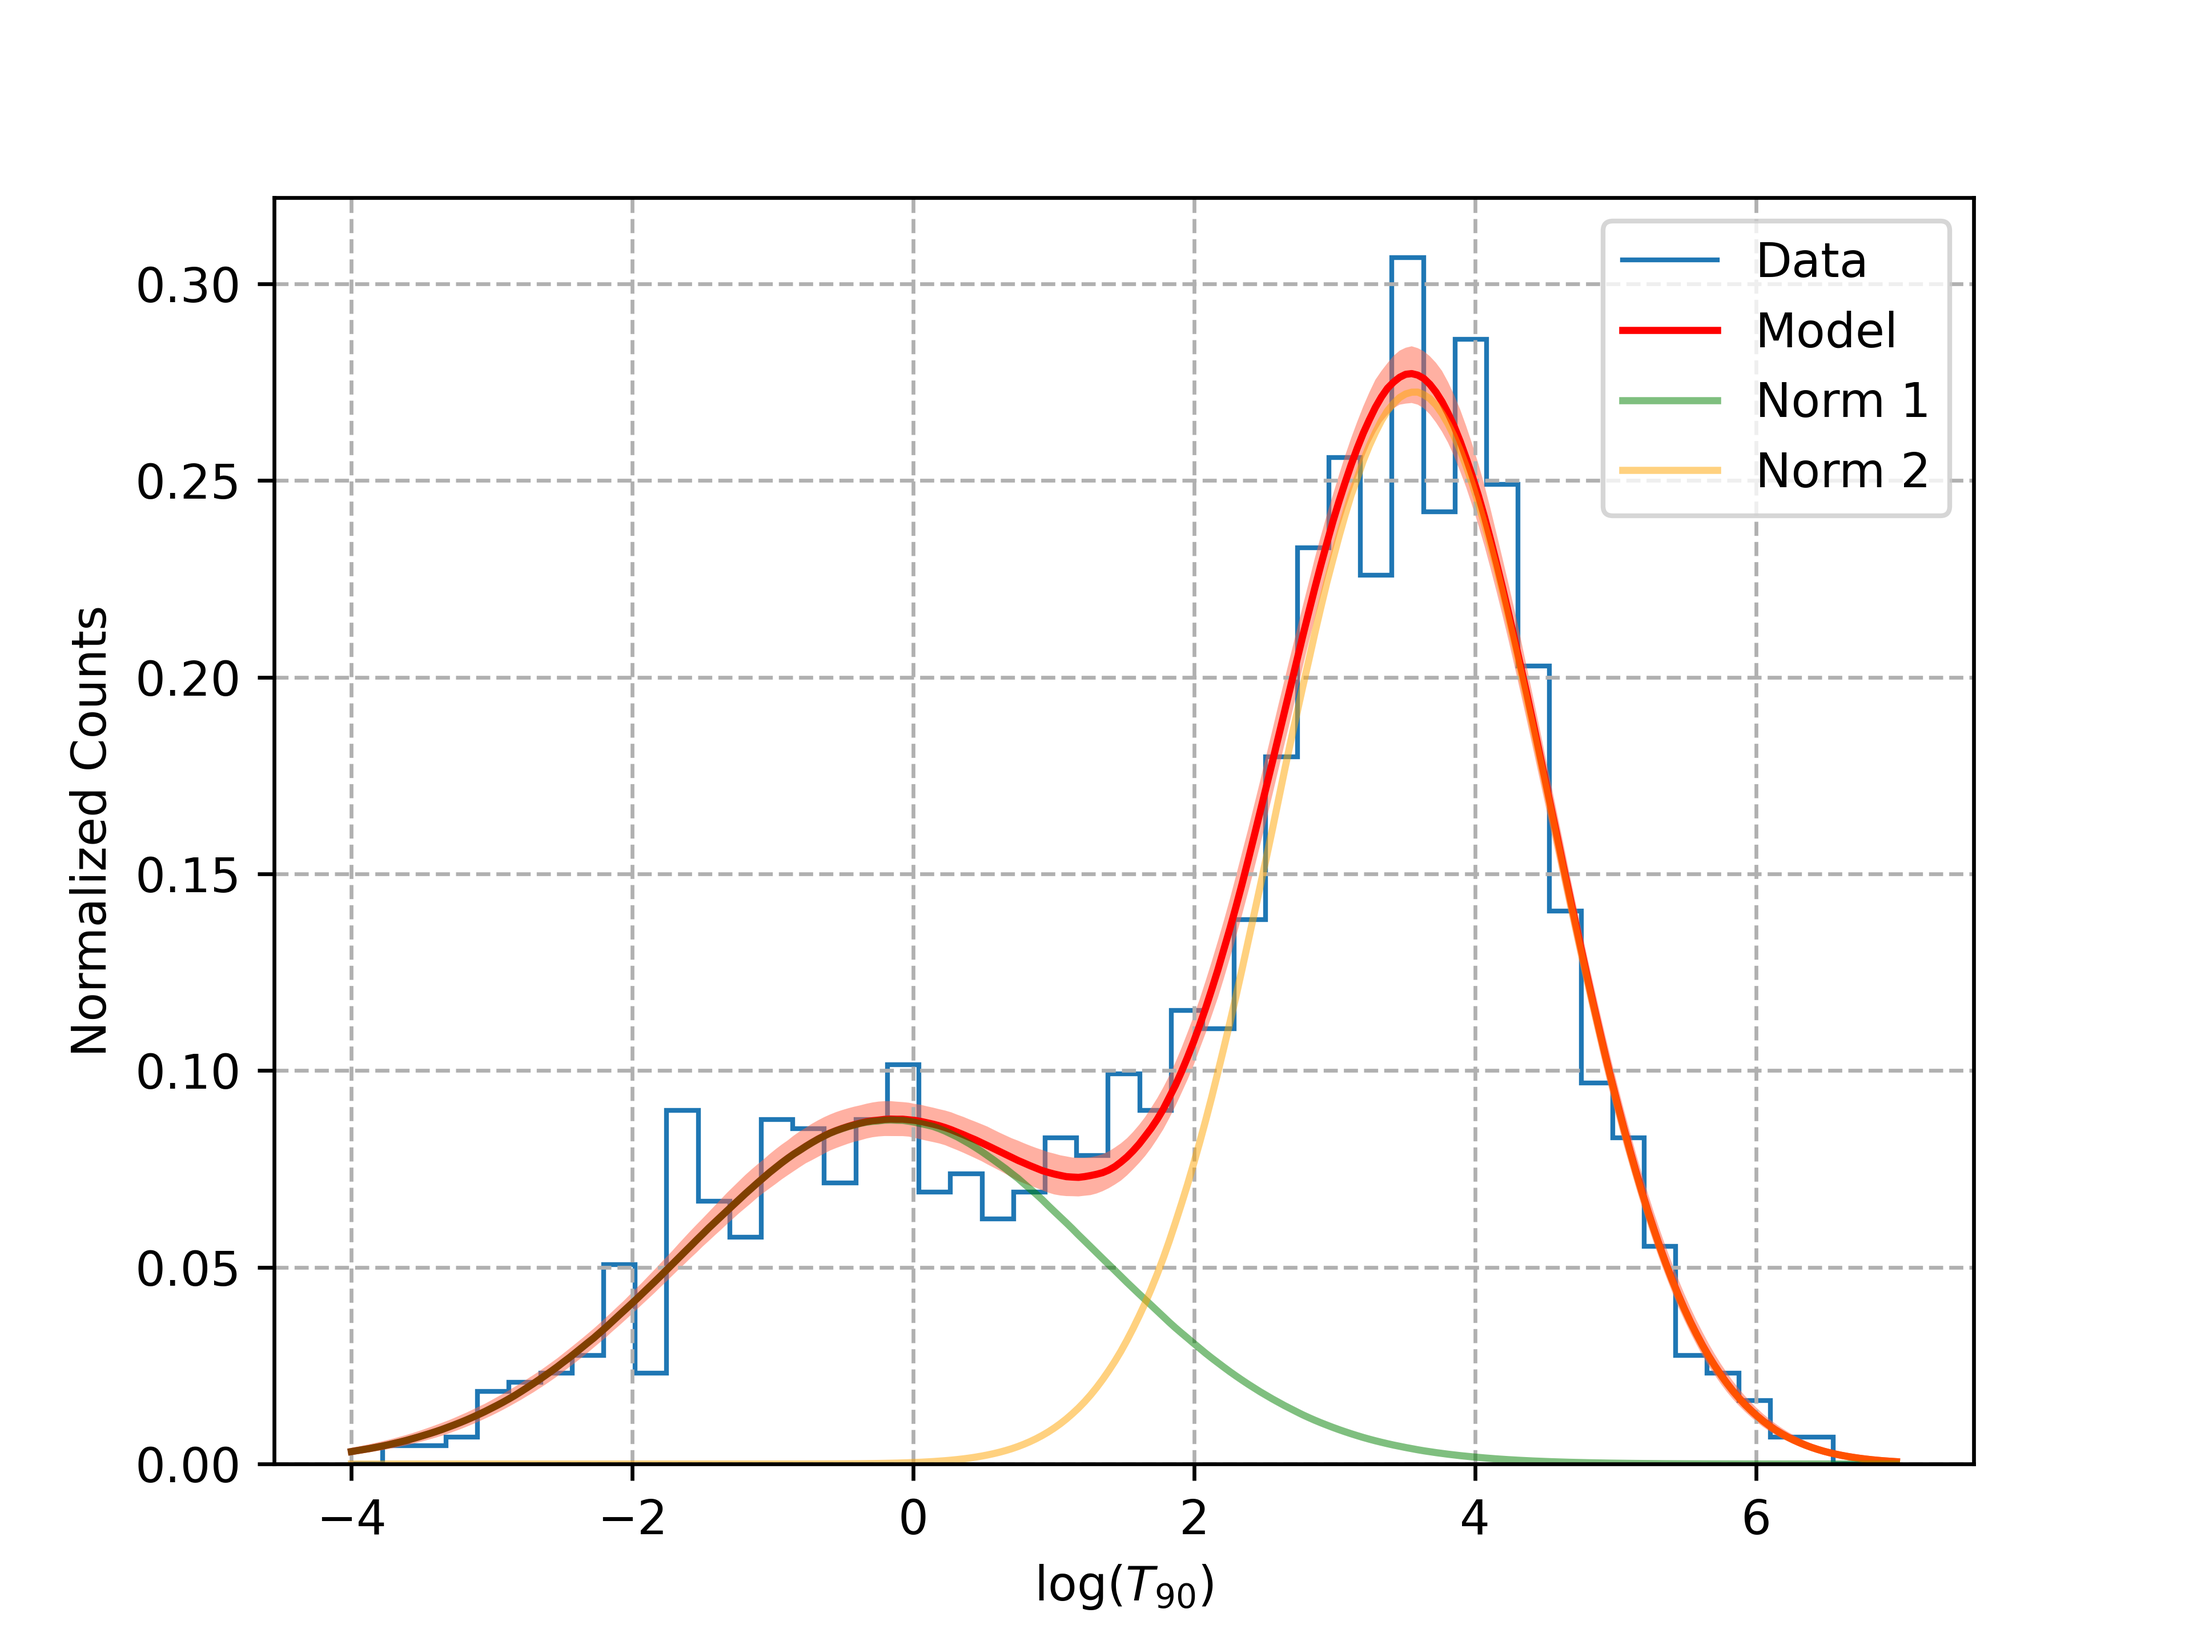
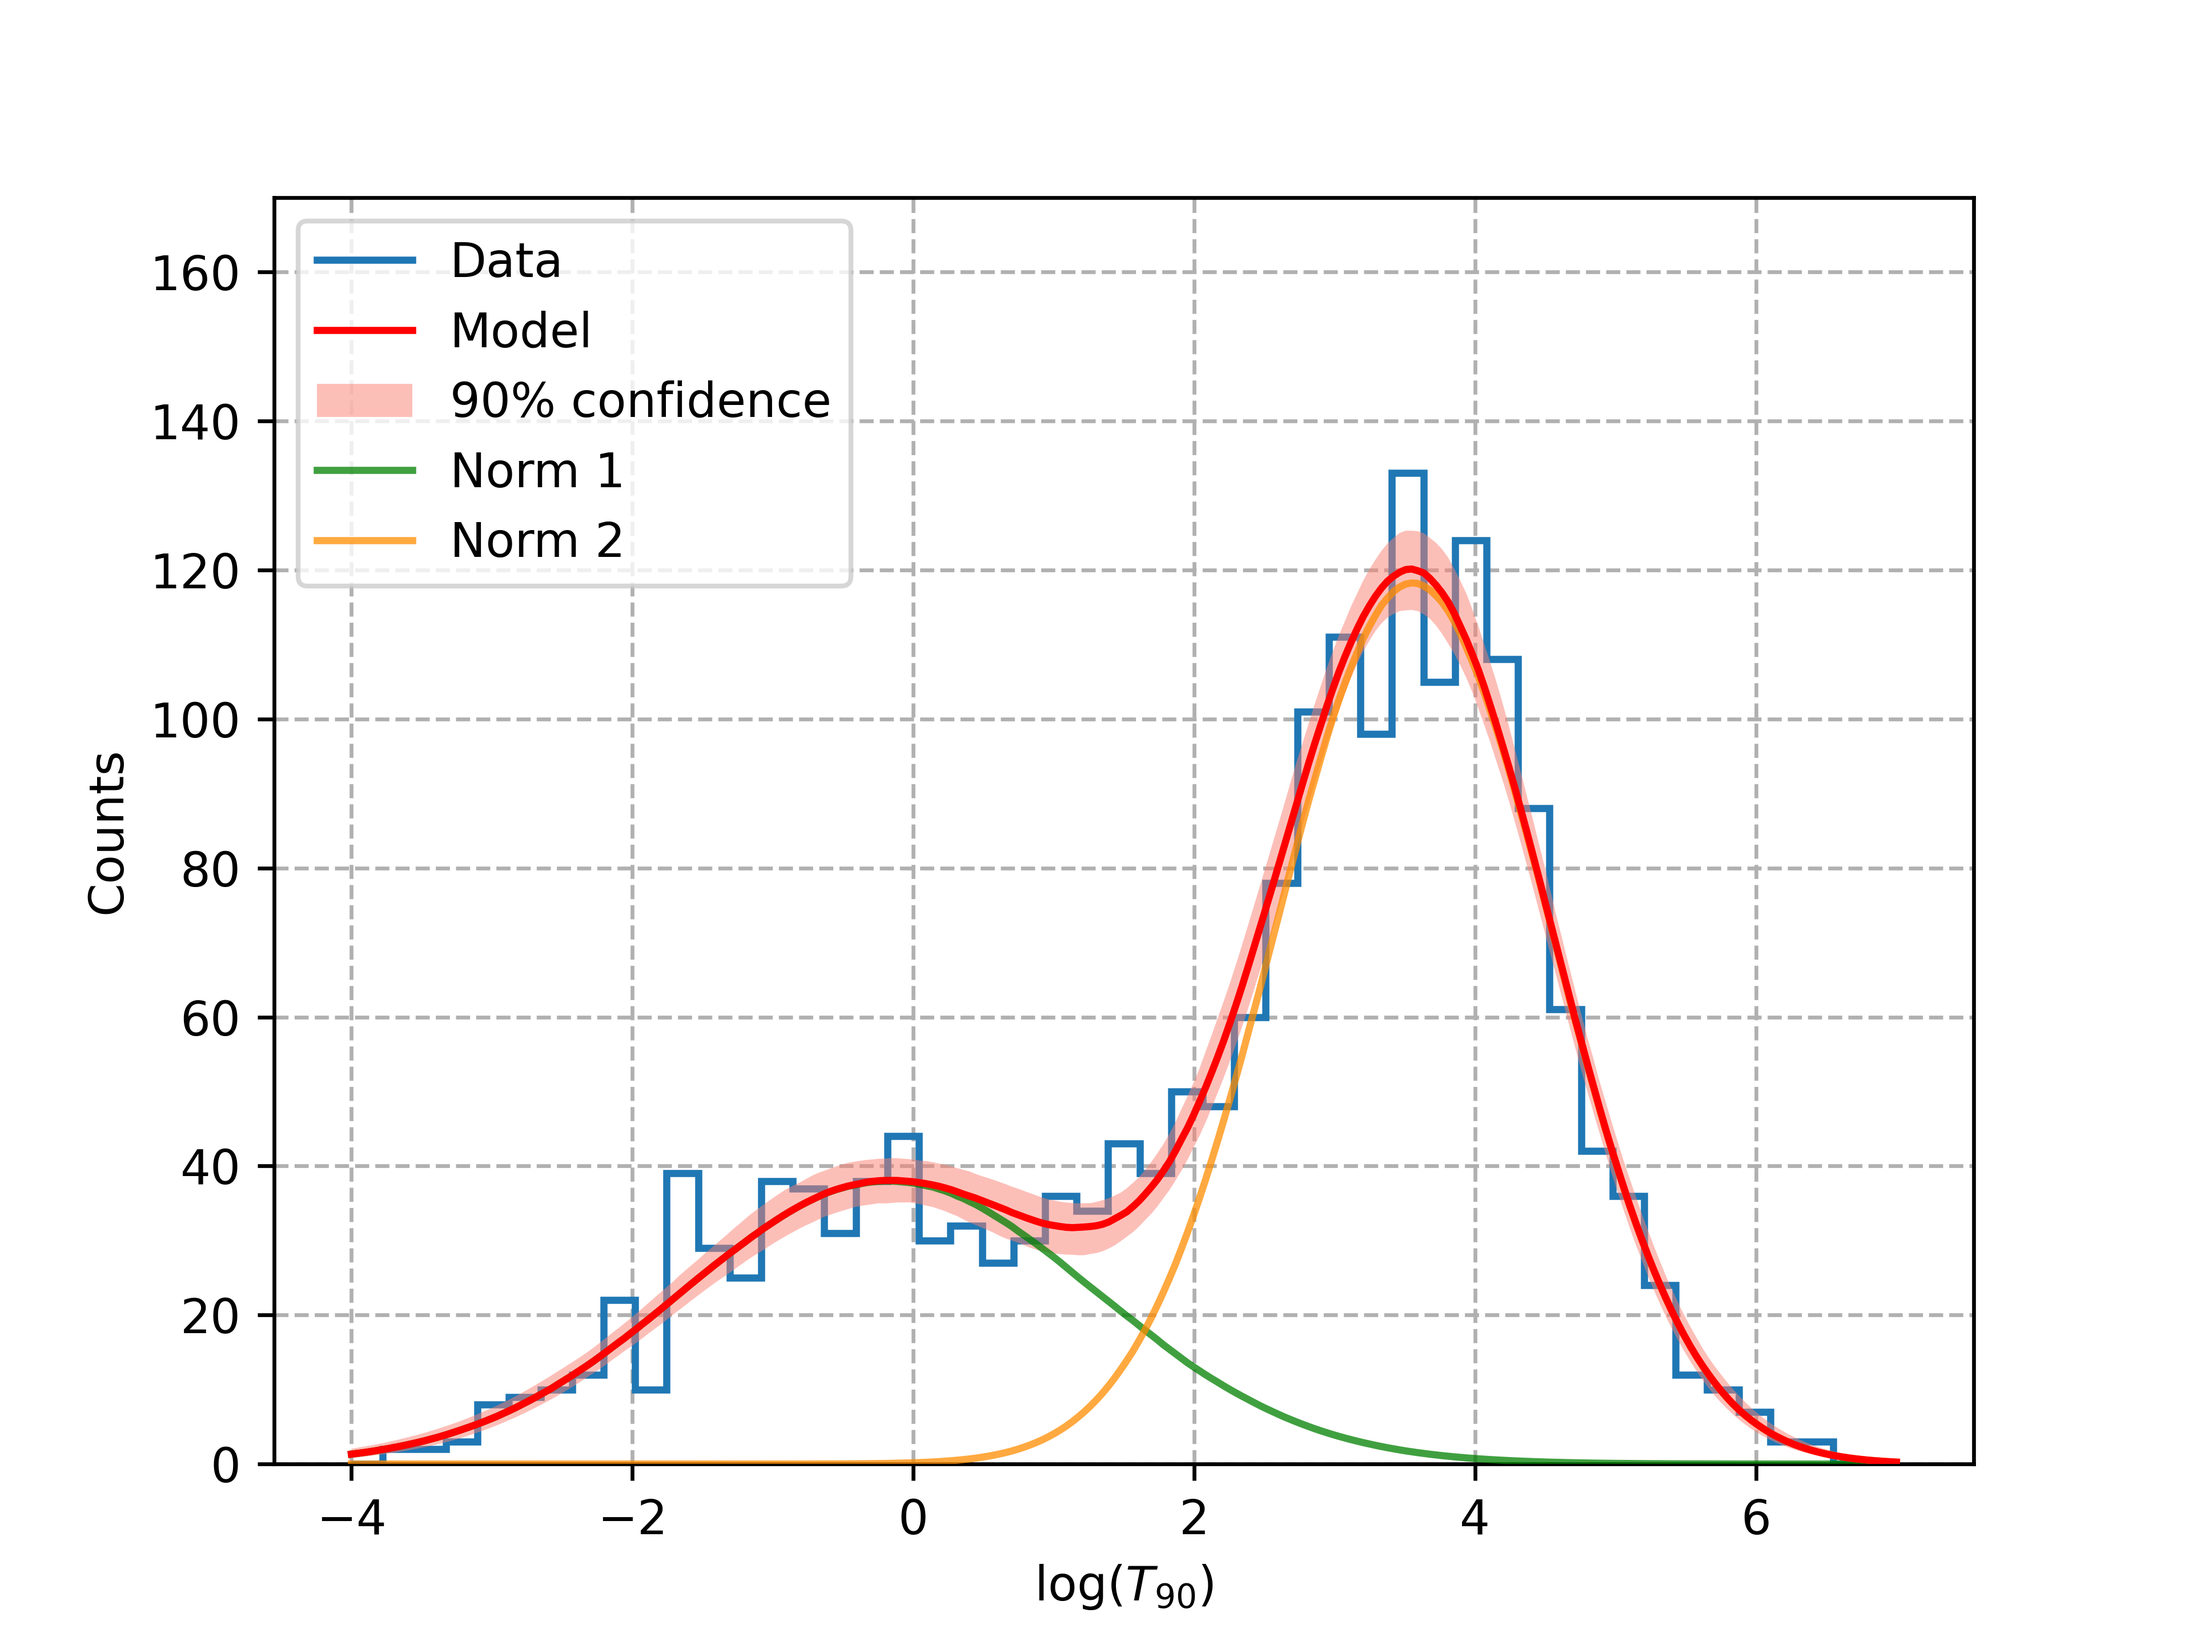
lunch 01/04: figures point 4 coerent

diff --git a/GRB_class_4.py b/GRB_class_4.py
@@ -98,8 +98,7 @@ if __name__ == "__main__":
     
     nbins = 50
     bins = np.linspace(-4, 7, nbins)
-    hist, edges = np.histogram(log_T90, bins = bins, density = True)    # used in plot
-    counts, _ = np.histogram(log_T90, bins = bins)                      # used for the real analysis
+    counts, edges = np.histogram(log_T90, bins = bins)                      # used for the real analysis
     center = (edges[1:] + edges[:-1])*0.5
 
     name2_l = ["$w$", "$\\mu_1$", "$\\sigma_1$", "$\\mu_2$", "$\\sigma_2$"]
@@ -344,7 +343,8 @@ if __name__ == "__main__":
     ax.set_xlabel("Iteration")
     plt.tight_layout()
     
-    # honestly burn-in = 0
+    burnin = 100
+    samples2 = samples2[burnin:,:]
 
     # look at autocorrelation for theta
     fig = plt.figure("J Parameters autocorrelation 2", figsize = (6,6))
@@ -355,8 +355,10 @@ if __name__ == "__main__":
     ax.set_xlabel("Iteration")
     plt.tight_layout()
     
-    thinning = 10
+    thinning = 15
     parameters = samples2[::thinning,:]
+
+    print(f"2 class: after burn-in and thinning we have {len(parameters[:,0])} samples")
 
     # find peaks and credible interval
     par_val = np.zeros(len(name2))
@@ -376,15 +378,6 @@ if __name__ == "__main__":
             ax = fig1.add_subplot(3, 2, i+1)
         counts_i, bins_i = np.histogram(parameters[:,i], bins = 30, density=True)
         ax.stairs(counts_i, bins_i, color = 'C0', linewidth = 1.5, baseline=0)
-        # plot the priors, Jeffrey for sigmas and uniform for others
-        if i == 2 or i == 4:
-            a = bounds2[i][0]
-            b = bounds2[i][1]
-            ss = np.linspace(a, b, 100)
-            ax.plot(ss, 1/(np.log(b/a) * ss), color = 'r', linestyle='dashed')
-        else:
-            ax.axhline(1/(bounds2[i][1] - bounds2[i][0]), color = 'r', linestyle='dashed')
-
         ax.axvline(par_val[i], color = 'green', linestyle='dashed')
         ax.axvline(par_val[i]+d_par_plus[i], color = 'orange', linestyle='dashed')
         ax.axvline(par_val[i]-d_par_minus[i], color = 'orange', linestyle='dashed')
@@ -398,9 +391,9 @@ if __name__ == "__main__":
     from matplotlib.lines import Line2D
     legend_elements = [
         Line2D([0], [0], color='C0', linewidth=1.5, label='Marginalised posterior samples'),
-        Line2D([0], [0], color='r', linestyle='dashed', label='Prior'),
+        #Line2D([0], [0], color='r', linestyle='dashed', label='Prior'),
         Line2D([0], [0], color='green', linestyle='dashed', label='Median value'),
-        Line2D([0], [0], color='orange', linestyle='dashed', label='Median value $\\pm\\sigma$'),
+        Line2D([0], [0], color='orange', linestyle='dashed', label='90% confidence interval'),
     ]
     ax_leg.legend(handles=legend_elements, loc='center')
     ax_leg.axis('off')  # Hide axes, ticks, spines and background
@@ -408,24 +401,29 @@ if __name__ == "__main__":
 
     
     posterior_models = [weighted_log_normal(xx, s) for s in parameters]
-    l, pdf2, h = np.percentile(posterior_models,[16,50,84],axis=0)
+    l, pdf2, h = np.percentile(posterior_models,[5,50,95],axis=0)
     w_normal_1 = np.percentile([s[0] * gauss(xx, s[1], s[2]) for s in parameters], 50, axis=0)
     w_normal_2 = np.percentile([(1-s[0]) * gauss(xx, s[3], s[4]) for s in parameters], 50, axis=0)
 
+    scale = np.diff(bins)[0]*np.sum(counts)
     # plot the data with the best fit
     fig2 = plt.figure("J Data and model 2")
-    plt.stairs(hist, edges, color = 'C0', label = 'Data')
-    plt.plot(xx, pdf2, 'r', label = "Model")
-    plt.fill_between(xx, h, l, facecolor='tomato', alpha = 0.5)
-    plt.plot(xx, w_normal_1, 'g', label = "Norm 1", alpha = 0.5)
-    plt.plot(xx, w_normal_2, color = 'orange', label = "Norm 2", alpha = 0.5)
-    plt.xlabel("$\\log(T_{90})$")
-    plt.ylabel("Normalized Counts")
+    ax = fig2.add_subplot(111)
+    ax.stairs(counts, edges, color = 'C0', label = 'Data', linewidth=1.5, zorder =1)
+    ax.plot(xx, pdf2*scale, 'r', label = "Model",zorder=4)
+    ax.fill_between(xx, h*scale, l*scale, facecolor='salmon', alpha = 0.5, label="90% confidence", zorder =2)
+    ax.plot(xx, w_normal_1*scale, 'g', label = "Norm 1", alpha = 0.75, zorder = 3)
+    ax.plot(xx, w_normal_2*scale, color = 'darkorange', label = "Norm 2", alpha = 0.75, zorder = 3)
+    ax.set_xlabel("$\\log(T_{90})$")
+    ax.set_ylabel("Counts")
+    ax.set_ylim([0,170])
+    ax.grid(linestyle = 'dashed')
+    ax.set_axisbelow(True)
     plt.legend()
-    plt.grid(linestyle = 'dashed')
 
     #store the parameters result with a different name to eventually save at end of file
     save2 = np.array([par_val, d_par_plus, d_par_minus]).T
+
 
     # now all again for model with 3 class
     samples3 = samples3[()]
@@ -454,9 +452,11 @@ if __name__ == "__main__":
     ax.set_xlabel("Iteration")
     plt.tight_layout()
     
-    thinning = 10
+    thinning = 15
     sample = samples3[burnin:,:]
     parameters = sample[::thinning,:]
+    print(f"3 class: after burn-in and thinning we have {len(parameters[:,0])} samples")
+
 
     # find peaks and credible interval
     par_val = np.zeros(len(name3))
@@ -488,7 +488,7 @@ if __name__ == "__main__":
             ax.axhline(1/(bounds3[i][1] - bounds3[i][0]), color = 'r', label = "Prior", linestyle='dashed')
         ax.axvline(par_val[i], color = 'g', label = "Median value", linestyle='dashed')
         ax.axvline(par_val[i]+d_par_plus[i], color = 'orange', linestyle='dashed')
-        ax.axvline(par_val[i]-d_par_minus[i], color = 'orange', label = "Peak value $\\pm\\sigma$", linestyle='dashed')
+        ax.axvline(par_val[i]-d_par_minus[i], color = 'orange', label = "90% confidence interval", linestyle='dashed')
         ax.set_xlabel(name3_l[i])
         delta = 2*np.diff(bins_i)[0]
         ax.set_xlim(np.min(bins_i)-delta, np.max(bins_i)+delta)
@@ -503,31 +503,44 @@ if __name__ == "__main__":
     w_normal_3 = np.percentile([(1-s[0]-s[7]) * gauss(xx, s[5], s[6]) for s in parameters], 50, axis=0)
 
     # plot the data with the best fit
+    scale = np.diff(bins)[0]*np.sum(counts)
+    # plot the data with the best fit
     fig4 = plt.figure("J Data and model 3")
-    plt.stairs(hist, edges, color = 'C0', label = 'Data')
-    plt.plot(xx, pdf3, 'r', label = "Model")
-    plt.fill_between(xx, h, l, facecolor='tomato', alpha = 0.5)
-    plt.plot(xx, w_normal_1, 'g', label = "Norm 1", alpha = 0.5)
-    plt.plot(xx, w_normal_2, 'purple', label = "Norm 2", alpha = 0.5)
-    plt.plot(xx, w_normal_3, color = 'orange', label = "Norm 3", alpha = 0.5)
-    plt.xlabel("$\\log(T_{90})$")
-    plt.ylabel("Normalized Counts")
+    ax = fig4.add_subplot(111)
+    ax.stairs(counts, edges, color = 'C0', label = 'Data', linewidth=1.5, zorder =1)
+    ax.plot(xx, pdf3*scale, 'r', label = "Model",zorder=4)
+    ax.fill_between(xx, h*scale, l*scale, facecolor='salmon', alpha = 0.5, label="90% confidence", zorder =2)
+    ax.plot(xx, w_normal_1*scale, 'g', label = "Norm 1", alpha = 0.75, zorder = 3)
+    ax.plot(xx, w_normal_2*scale, color = 'purple', label = "Norm 2", alpha = 0.75, zorder = 3)
+    ax.plot(xx, w_normal_3*scale, color = 'darkorange', label = "Norm 3", alpha = 0.75, zorder = 3)
+    ax.set_xlabel("$\\log(T_{90})$")
+    ax.set_ylabel("Counts")
+    ax.set_ylim([0,170])
+    ax.grid(linestyle = 'dashed')
+    ax.set_axisbelow(True)
     plt.legend()
-    plt.grid(linestyle = 'dashed')
     
+    plt.close('all')
     
     # plot the data with the two best fit
     fig5 = plt.figure("J Data and the two models")
-    plt.stairs(hist, edges, color = 'C0', label = 'Data')
-    plt.plot(xx, pdf2, 'k', label = "Model with 2 classes")
-    plt.plot(xx, pdf3, 'r', label = "Model with 3 classes")
-    plt.xlabel("$\\log(T_{90})$")
-    plt.ylabel("Normalized Counts")
+    ax = fig5.add_subplot(111)
+    ax.stairs(counts, edges, color = 'C0', label = 'Data', linewidth=1.5, zorder =1)
+    #ax.fill_between(xx, pdf2*scale, pdf3*scale, color = 'g', alpha = 0.5)
+    ax.plot(xx, pdf2*scale, 'k', label = "Model with 2 classes", zorder = 3)
+    ax.plot(xx, pdf3*scale, 'r', label = "Model with 3 classes", zorder = 2)
+    ax.set_xlabel("$\\log(T_{90})$")
+    ax.set_ylabel("Counts")
+    ax.grid(linestyle = 'dashed')
+    ax.set_axisbelow(True)
     plt.legend()
-    plt.grid(linestyle = 'dashed')
-    
+
+
     # save the results
-    """
+    
+    plt.show()
+    exit()
+
     header = "par_val d_par_plus d_par_minus"
     # from the 2 class analysis
     fig1.savefig(main_dir+"\\Results\\NS\\J_2_Parameters_histogram.png", dpi = 600)
@@ -541,5 +554,3 @@ if __name__ == "__main__":
 
     # both models
     fig5.savefig(main_dir+"\\Results\\NS\\J_Model_both.png", dpi = 600)
-    """
-    #plt.show()

diff --git a/GRB_class_1.py b/GRB_class_1.py
@@ -419,11 +419,11 @@ if __name__ == "__main__":
     # plot the data with the best fit
     fig6 = plt.figure("Data and model")
     ax = fig6.add_subplot(111)
-    ax.stairs(counts, edges, color = 'C0', label = 'Data', linewidth=1.5, zorder =1)
+    ax.stairs(counts, edges, color = 'C0', label = 'Data', linewidth=1.5, zorder = 1)
     ax.plot(xx, pdf*scale, 'r', label = "Model", zorder = 4)
     ax.fill_between(xx, h*scale, l*scale, facecolor='salmon', alpha = 0.5, label="90% confidence", zorder =2)
-    ax.plot(xx, w_normal_1*scale, 'g', label = "Norm 1", alpha = 0.75, zorder =3)
-    ax.plot(xx, w_normal_2*scale, color = 'darkorange', label = "Norm 2", alpha = 0.75, zorder =3)
+    ax.plot(xx, w_normal_1*scale, 'g', label = "Norm 1", alpha = 0.75, zorder = 3)
+    ax.plot(xx, w_normal_2*scale, color = 'darkorange', label = "Norm 2", alpha = 0.75, zorder = 3)
     ax.set_xlabel("$\\log(T_{90})$")
     ax.set_ylabel("Counts")
     ax.set_ylim([0,170])

diff --git a/GRB_class_2_3.py b/GRB_class_2_3.py
@@ -123,7 +123,7 @@ if __name__ == "__main__":
     # end of point, show and or save images
 
     plt.show()
-    #exit()
+    exit()
 
     fig_class.savefig(main_dir+"\\Results\\GRB_to_class.png", dpi = 600)
     fig_prob.savefig(main_dir+"\\Results\\Prob_of_class.png", dpi = 600)
